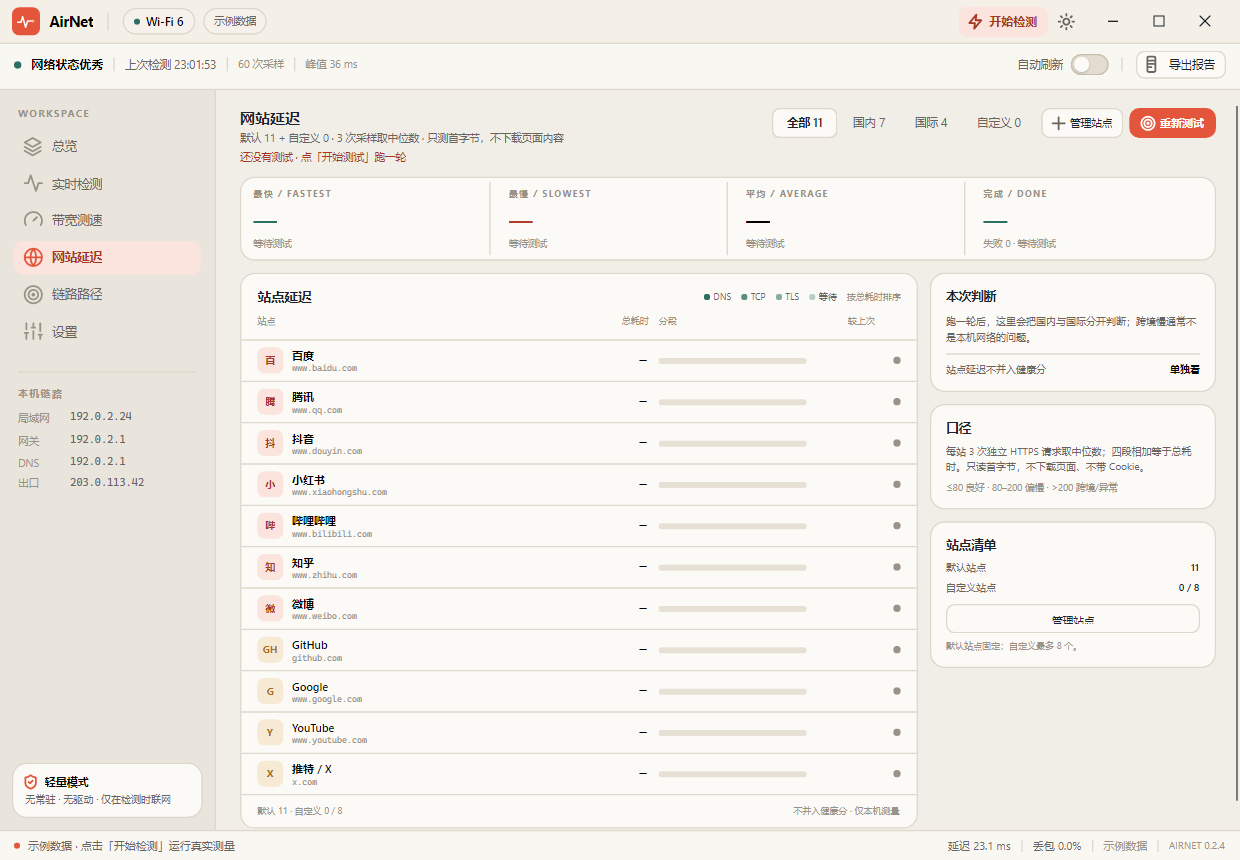
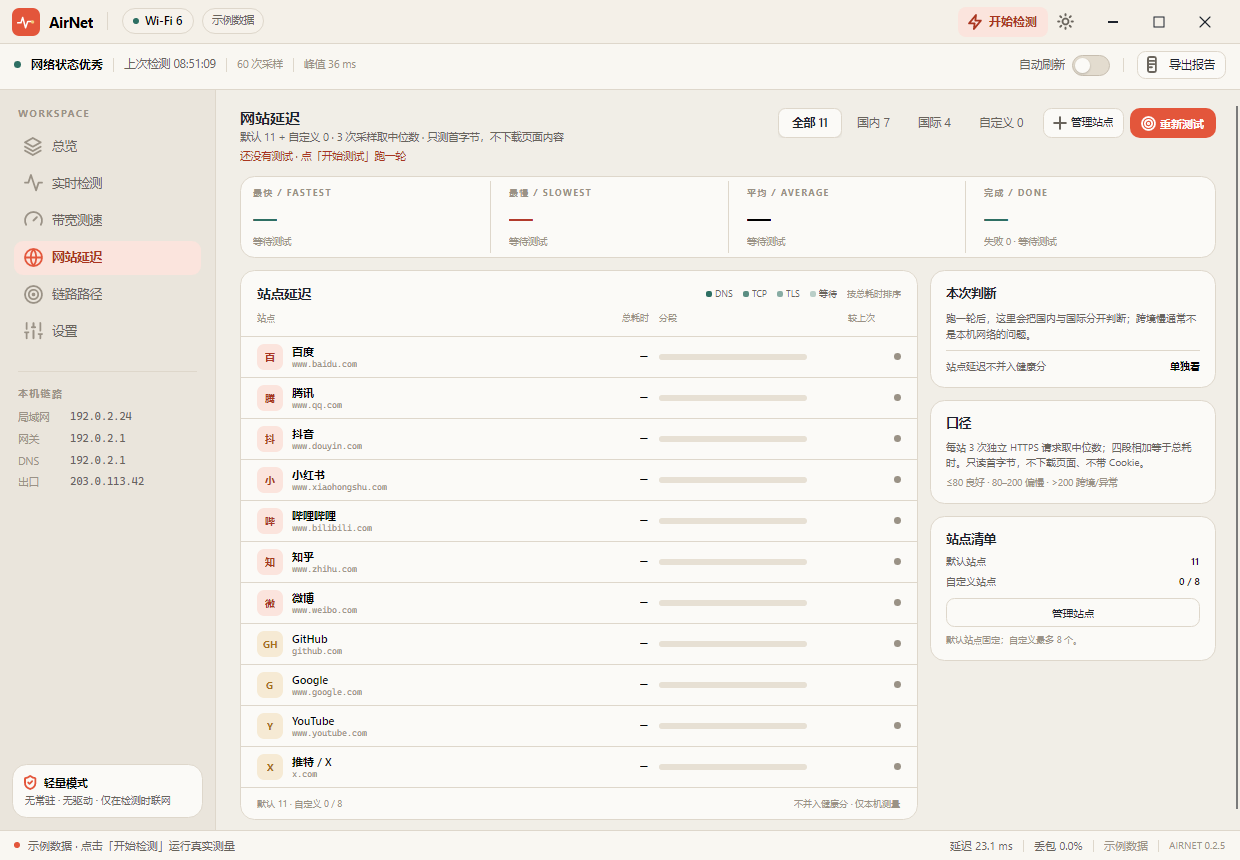
release: 0.2.5
Publish DNS evidence, JSON probe and history deltas. Bump version/footer, refresh README/changelog/test counts, regenerate screenshots, and add v0.2.5 release notes.

diff --git a/src/AirNet.App/ViewModels/SettingsViewModel.cs b/src/AirNet.App/ViewModels/SettingsViewModel.cs
@@ -59,7 +59,7 @@ public partial class SettingsViewModel : ObservableObject
     [ObservableProperty]
     private string _dnsBackupText = string.Empty;
 
-    public string VersionText => "0.2.4 · M3";
+    public string VersionText => "0.2.5 · M3";
     public string RuntimeText => ".NET 10 · Avalonia 11.3 · Windows / macOS / Linux";
     public string FootprintText => "R2R 单文件 · 无驱动 · 无后台常驻";
     public string PrivacyText =>

diff --git a/README.md b/README.md
@@ -20,9 +20,10 @@
 
 ## 当前状态
 
-**M2 已完成**：六页界面、评分与诊断、真实探测（含亚毫秒抖动）、三段归因、逐跳路径、MTU、
-网站延迟（含自定义站点）、报告导出、一键 DNS（含还原）、历史落盘、出口 IP、设置持久化、快捷键、
-单元测试、裁剪单文件发布、CI 都已跑通。
+**M3 主要能力已落地**：六页界面、评分与诊断、真实探测（含亚毫秒抖动）、三段归因、逐跳路径、
+MTU、网站延迟（含自定义站点）、上下行测速、IPv4/IPv6 双栈、代理/VPN 识别、DNS 三方对比、
+`--probe --json`、历史差值、报告导出、一键 DNS（含还原）、设置持久化、快捷键、裁剪单文件发布、
+CI 都已跑通；邻区扫描与游戏/会议模式仍在后续。
 
 | 部分 | 状态 |
 | --- | --- |
@@ -41,7 +42,7 @@
 | **MTU**（DF 二分） | ✅ M2 实测 1480（PPPoE） |
 | **报告导出**（自包含 HTML，可打印 PDF） | ✅ M2 7.8KB / 零脚本 / 地址掩码 |
 | **一键 DNS + 还原**（Windows 提权） | ✅ M2 命令先展示，还原记录落盘 |
-| **单元测试**（xUnit） | ✅ 70 项：统计 / 分档 / 解析 / 掩码 / 历史 / 站点目录、HTTP 状态与站点历史 |
+| **单元测试**（xUnit） | ✅ 123 项：统计 / 分档 / 解析 / 掩码 / 历史 / DNS / 双栈 / 代理 / 站点目录与 HTTP 状态 |
 | **设置**（持久化 / 自动刷新 / 键盘快捷键） | ✅ M2，写入 `settings.json`；60s 自动刷新仅在窗口可见时执行 |
 | 裁剪 + R2R 单文件发布 | ✅ 26.9MB zip / 41.1MB 解压 / 1.6–1.9s / ~176MB（本机 2026-11 复测） |
 | CI（构建 + 单元测试 + 探针冒烟 + 报告断言 + 截图工件） | ✅ M2 |
@@ -50,6 +51,7 @@
 | **代理 / VPN 识别** | ✅ 检测系统代理与隧道网卡，明确标注「经代理 / 经 VPN」并说明哪些数字因此失真 |
 | **DNS 三方对比** | ✅ 同一域名实测「当前 / 223.5.5.5 / 1.1.1.1」，差 20% 且 ≥5ms 才建议更换 |
 | **CLI JSON** | ✅ `--probe --json out.json`，稳定 schema + 退出码（0 健康 / 1 一般 / 2 较差 / 3 失败） |
+| **历史差值** | ✅ 每条历史显示与上次的分数 / 延迟 / 抖动 / 下行变化，一眼看出改动是否有效 |
 | 邻区扫描、游戏/会议模式 | ⬜ 见 [技术方案](docs/TECH_PLAN.md) |
 
 程序启动时展示**确定性样例数据**（右上角标"示例数据"），点"开始检测"即切换为真实测量并写入历史。

diff --git a/docs/release/v0.2.5.md b/docs/release/v0.2.5.md
@@ -1,0 +1,42 @@
+## AirNet 0.2.5
+
+从 v0.2.4 继续收口：把 DNS 实测、脚本化 JSON 和历史差值带进正式发布。
+**仅提供便携包，不提供 setup/安装器。**
+
+### 新增
+
+- **DNS 三方实测对比**：同一个域名在本次运行中分别询问当前 DNS、223.5.5.5 和
+  1.1.1.1，设置页引用三组实测耗时；只有替代方案同时快 20% 且 ≥5ms 才建议更换，
+  避免“公共 DNS 一定更快”的猜测。两个公共解析器都无响应时，回退到单样本启发式。
+- **`--probe --json <path>`**：一次扫描输出一份带 `schemaVersion: 1` 的 JSON，
+  包含评分、延迟、四段计时、双栈、接口、代理/隧道、DNS 和诊断结论。退出码直接
+  表达结论：`0` 健康（75+）、`1` 一般（60–74）、`2` 较差、`3` 扫描失败，脚本
+  无需解析文本即可做门禁。
+- **历史每条记录的差值**：首页“最近检测”现在显示与上一次的分数、延迟、抖动和
+  下行变化，并用颜色和文字标出改善/退化；换路由器或换 DNS 后是否真的有效，
+  第一屏就能回答。
+
+### 验证
+
+- Windows Release 构建：0 warning / 0 error。
+- 单元测试：**123 passed**（v0.2.4 为 101）。
+- main CI 与 CodeQL：通过。
+- Linux x64：真实 Linux 环境启动验证；Linux arm64 / macOS arm64+x64 已构建并校验
+  归档，未真机运行。
+- Wi-Fi 信号 / 速率 / PHY 已在真实无线网卡验证。
+
+### 使用
+
+**Windows**：解压后双击 `AirNet.exe`。
+
+**macOS**：解压得到 `AirNet.app`，拖到应用程序目录；未签名/未公证，首次打开需右键 → 打开。
+
+**Linux**：
+
+```bash
+tar -xzf AirNet-0.2.5-linux-x64.tar.gz   # 或 unzip ...
+cd AirNet
+bash run.sh
+```
+
+也可以 `chmod +x AirNet && ./AirNet`。需要 X11 或 Wayland（XWayland）及常见桌面库。

diff --git a/docs/WEBSITE_LATENCY.md b/docs/WEBSITE_LATENCY.md
@@ -4,7 +4,7 @@
 > 这是一次**按需**测试，不进入 3 秒主扫描，也不并入健康分。
 >
 > **状态：已实现（2026-11）**。六页导航、11 个默认站、最多 8 个自定义站、`sites.json`、
-> HTTP 状态识别、`sites.jsonl` 历史、`--sites` CLI、报告表格、70 项单元测试都已接入；
+> HTTP 状态识别、`sites.jsonl` 历史、`--sites` CLI、报告表格、123 项单元测试都已接入；
 > 实现截图见 [04-sites-light.png](shots/04-sites-light.png)。
 >
 > 视觉稿：[主页面](design/site-latency-mockup.png) · [HTML 源稿](design/site-latency-mockup.html)；

diff --git a/CHANGELOG.md b/CHANGELOG.md
@@ -3,7 +3,7 @@
 All notable changes are documented here. The format follows Keep a Changelog and the
 project uses semantic versioning for release tags.
 
-## [Unreleased]
+## [0.2.5] - 2026-11-13
 
 ### Added
 
